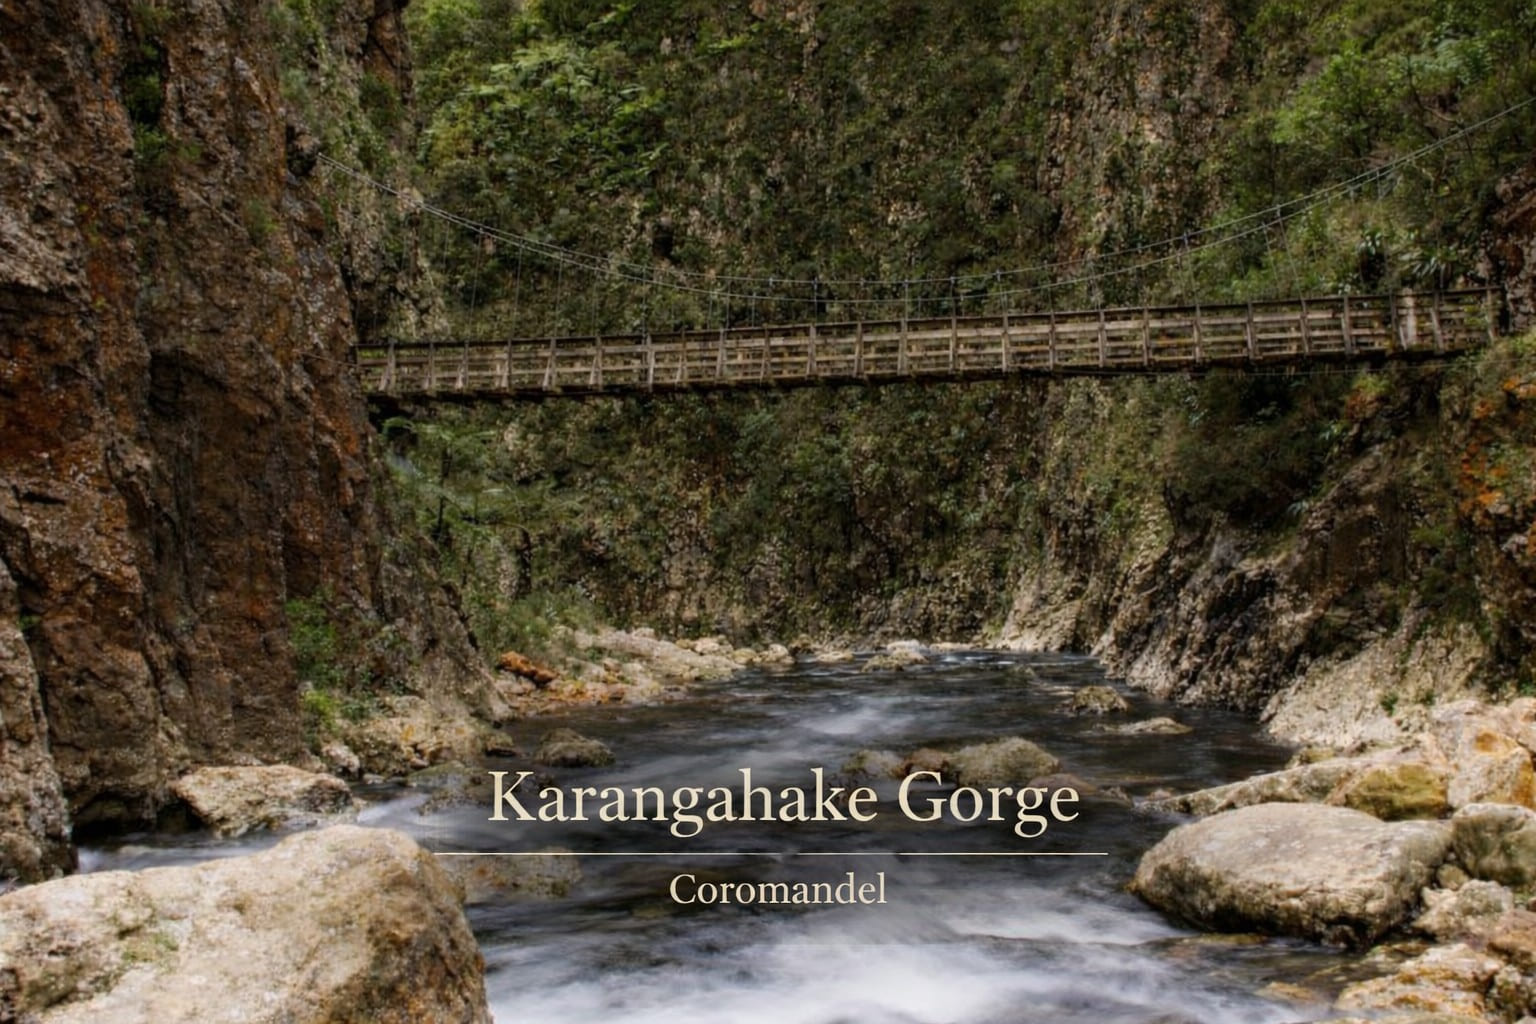
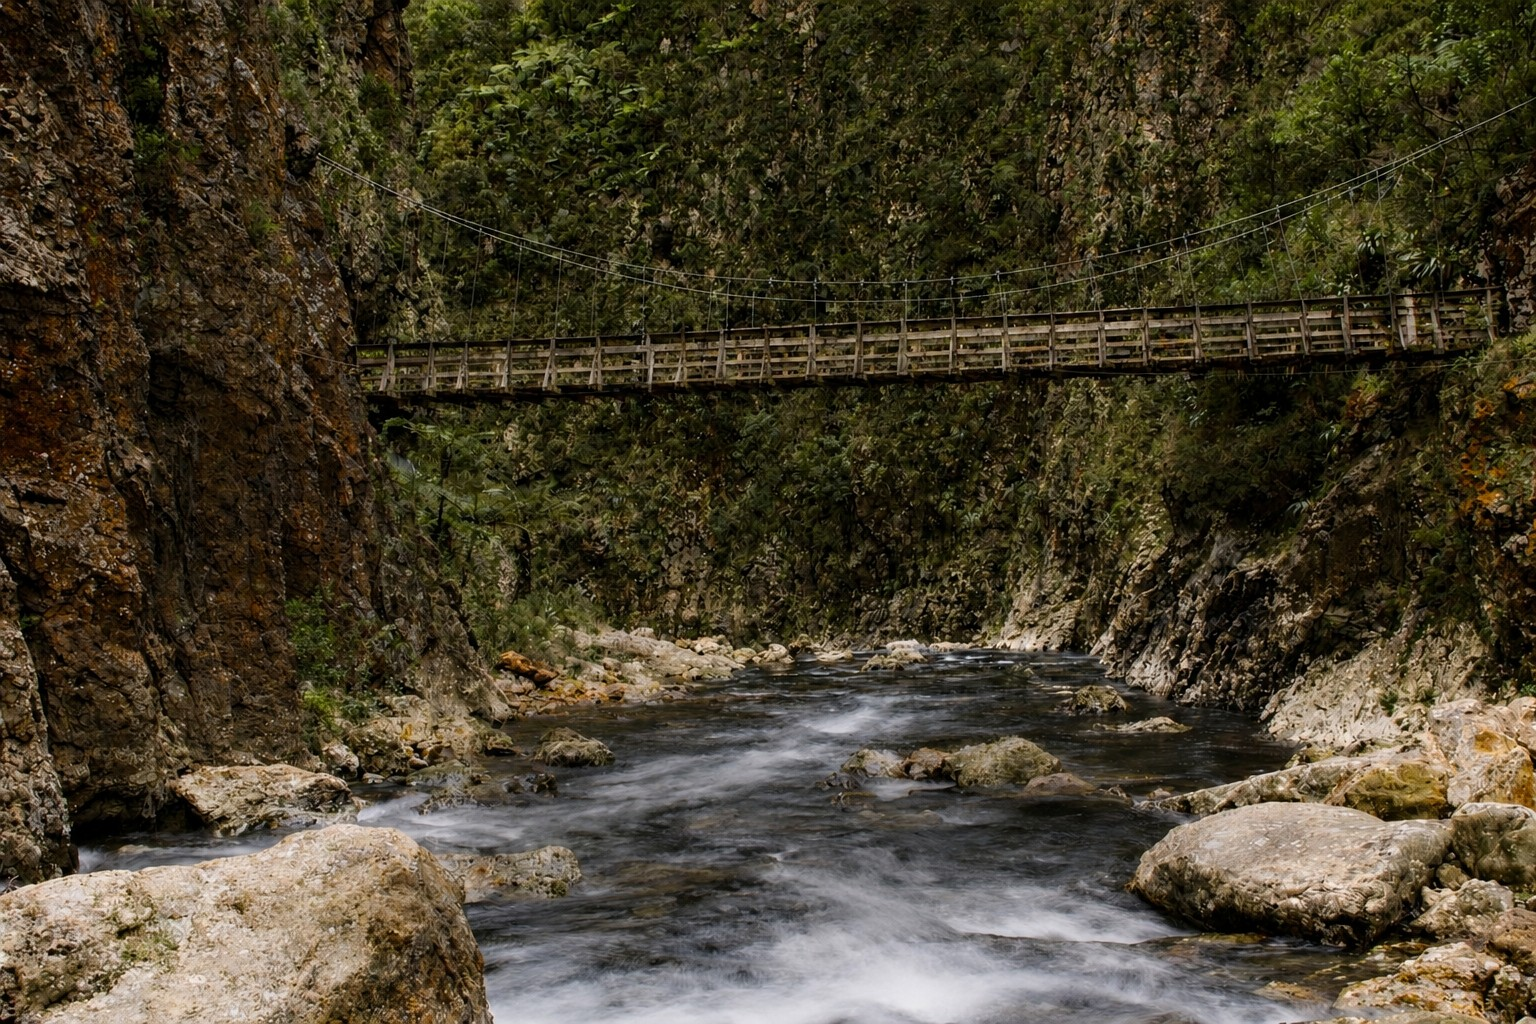
Update Rakiura Track journey image

Changed region(s): [[0.0, 0.0, 1.0, 1.0]]

diff --git a/lib/experiencesData/journeyData.ts b/lib/experiencesData/journeyData.ts
@@ -29,7 +29,7 @@ export const journeyExperienceSlides: AdventureExperienceSlide[] = [
   },
   {
     image: `${J}redwoods-treewalk-rotorua.jpg`,
-    alt: "Redwoods Treewalk in Whakarewarewa Forest Rotorua, New Zealand",
+    alt: "Redwoods Treewalk canopy bridge surrounded by native ferns in Whakarewarewa Forest, Rotorua, New Zealand",
     title: "Redwoods Treewalk / Whakarewarewa Forest",
     description:
       "Walk among towering redwoods, forest trails and suspended bridges in one of Rotorua’s most atmospheric natural settings.",
@@ -53,7 +53,7 @@ export const journeyExperienceSlides: AdventureExperienceSlide[] = [
   },
   {
     image: `${J}karangahake-gorge-coromandel.jpg`,
-    alt: "Karangahake Gorge river, bridges and native bush in the Coromandel, New Zealand",
+    alt: "Suspension bridge over the river in Karangahake Gorge with rocky cliffs and native bush in New Zealand",
     title: "Karangahake Gorge (hiking)",
     description:
       "Historic trails, river paths, bridges and native bush make this gorge one of the North Island’s most memorable walking areas.",
@@ -64,8 +64,8 @@ export const journeyExperienceSlides: AdventureExperienceSlide[] = [
     url: "https://thecoromandel.nz/destinations/karangahake-gorge/",
   },
   {
-    image: `${J}kaikoura-coast-track-south-island-new-zealand.jpg`,
-    alt: "Kaikōura coastal walking landscape with ocean and mountain views in New Zealand",
+    image: `${J}kaikoura-peninsula-walkway-coastal-bay-new-zealand.jpg`,
+    alt: "Kaikoura Peninsula Walkway with coastal bay, turquoise ocean and grassy clifftop views in New Zealand",
     title: "Kaikōura Peninsula Walkway",
     description:
       "A coastal walkway shaped by sea cliffs, wildlife, mountain views and the distinctive meeting point of land and ocean.",
@@ -79,8 +79,8 @@ export const journeyExperienceSlides: AdventureExperienceSlide[] = [
     url: "https://www.doc.govt.nz/parks-and-recreation/places-to-go/canterbury/places/kaikoura-area/things-to-do/kaikoura-peninsula-walkway/",
   },
   {
-    image: `${J}Lake Dunstan Trail, Central Otago.jpg`,
-    alt: "Lake Dunstan Trail in Central Otago with turquoise water, cliffs and cycling path, New Zealand",
+    image: `${J}lake-dunstan-trail-central-otago.jpg`,
+    alt: "Cyclists riding the Lake Dunstan Trail boardwalk beside turquoise lake waters and rocky cliffs in Central Otago, New Zealand",
     title: "Lake Dunstan Trail - Bannockburn Bridge Car Park",
     description:
       "A scenic trail section above Lake Dunstan, with boardwalks, cliffs and wide Central Otago views.",
@@ -94,8 +94,8 @@ export const journeyExperienceSlides: AdventureExperienceSlide[] = [
     url: "https://www.centralotagonz.com/tracks-and-trails/lake-dunstan-trail/map-and-sections/",
   },
   {
-    image: `${J}rakiura-national-park-beach-stewart-island-new-zealand.jpg`,
-    alt: "Rakiura National Park beach and coastal track on Stewart Island, New Zealand",
+    image: `${J}rakiura-track-stewart-island-coastal-trail-new-zealand.jpg`,
+    alt: "Rakiura Track coastal trail with native bush, rocky shoreline and turquoise ocean on Stewart Island, New Zealand",
     title: "Rakiura Track",
     description:
       "A Great Walk through coastal forest, beaches and sheltered bays on Stewart Island / Rakiura.",
